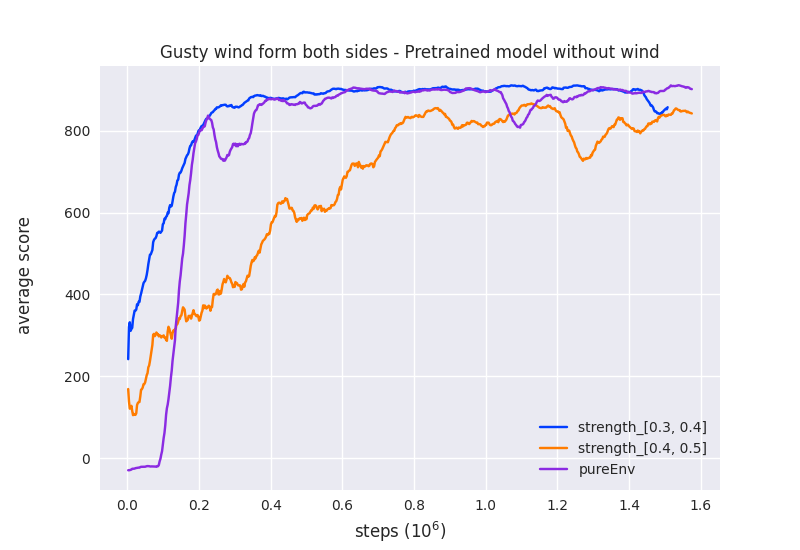
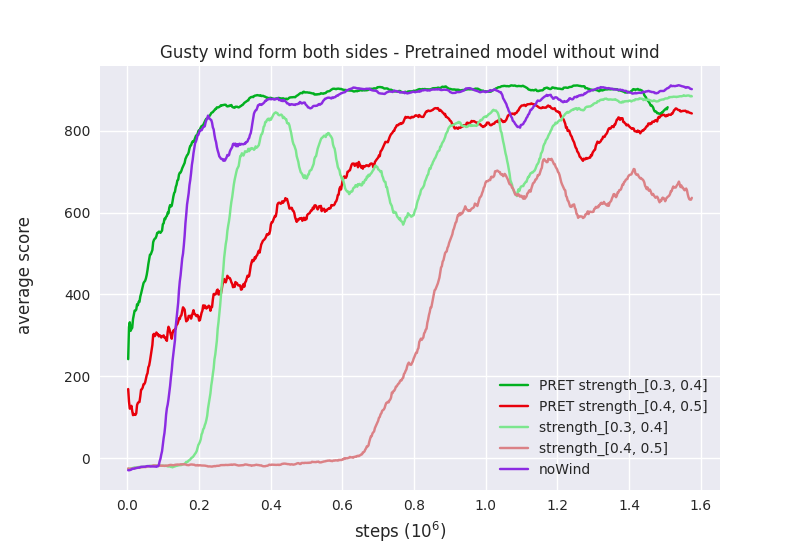
pureEnv to noWind change

diff --git a/tensorboardPlotting/tfmatplotlib.py b/tensorboardPlotting/tfmatplotlib.py
@@ -11,23 +11,23 @@ import numpy as np
 import math
 
 # ------- ADJUSTABLES -------
-input_paths = [
-    # "/mnt/personal/sykorvo1/PPOthesis/ppo/pureEnv/2023-02-24_17-00-49.433548/events.out.tfevents.1677254450.g04.1551953.0.v2",
-    # "/mnt/personal/sykorvo1/PPOthesis/ppo/pureEnv/2023-02-24_17-23-48.526468/events.out.tfevents.1677255829.g01.2154405.0.v2",
-    # "/mnt/personal/sykorvo1/PPOthesis/ppo/pureEnv/2023-02-27_22-24-03.054114/events.out.tfevents.1677533043.g04.1583837.0.v2",
-    # "/mnt/personal/sykorvo1/PPOthesis/ppo/pureEnv/2023-02-27_22-24-03.094545/events.out.tfevents.1677533043.g12.1928932.0.v2",
-    # "/mnt/personal/sykorvo1/PPOthesis/ppo/gustyLeft/2023-02-28_18-21-18.481500/events.out.tfevents.1677604878.a01.1440399.0.v2",
-    # "/mnt/personal/sykorvo1/PPOthesis/ppo/gustyLeft/2023-02-28_18-21-18.713632/events.out.tfevents.1677604879.a01.1440398.0.v2",
-    "/mnt/personal/sykorvo1/PPOthesis/ppo/sides/strength_[0.1, 0.2]/events.out.tfevents.1677708004.a14.510925.0.v2",
-    "/mnt/personal/sykorvo1/PPOthesis/ppo/sides/strength_[0.2, 0.3]/events.out.tfevents.1677708004.a14.510926.0.v2",
-    "/mnt/personal/sykorvo1/PPOthesis/ppo/sides/strength_[0.3, 0.4]/events.out.tfevents.1677708004.a15.1610646.0.v2",
-    "/mnt/personal/sykorvo1/PPOthesis/ppo/sides/strength_[0.4, 0.5]/events.out.tfevents.1677708003.a15.1610647.0.v2",
-    "/mnt/personal/sykorvo1/PPOthesis/ppo/BEST/pureEnv/events.out.tfevents.1670670309.a06.1146630.0.v2"
-    ]
+# input_paths = [
+#     # "/mnt/personal/sykorvo1/PPOthesis/ppo/noWind/2023-02-24_17-00-49.433548/events.out.tfevents.1677254450.g04.1551953.0.v2",
+#     # "/mnt/personal/sykorvo1/PPOthesis/ppo/noWind/2023-02-24_17-23-48.526468/events.out.tfevents.1677255829.g01.2154405.0.v2",
+#     # "/mnt/personal/sykorvo1/PPOthesis/ppo/noWind/2023-02-27_22-24-03.054114/events.out.tfevents.1677533043.g04.1583837.0.v2",
+#     # "/mnt/personal/sykorvo1/PPOthesis/ppo/noWind/2023-02-27_22-24-03.094545/events.out.tfevents.1677533043.g12.1928932.0.v2",
+#     # "/mnt/personal/sykorvo1/PPOthesis/ppo/gustyLeft/2023-02-28_18-21-18.481500/events.out.tfevents.1677604878.a01.1440399.0.v2",
+#     # "/mnt/personal/sykorvo1/PPOthesis/ppo/gustyLeft/2023-02-28_18-21-18.713632/events.out.tfevents.1677604879.a01.1440398.0.v2",
+#     "/mnt/personal/sykorvo1/PPOthesis/ppo/sides/strength_[0.1, 0.2]/events.out.tfevents.1677708004.a14.510925.0.v2",
+#     "/mnt/personal/sykorvo1/PPOthesis/ppo/sides/strength_[0.2, 0.3]/events.out.tfevents.1677708004.a14.510926.0.v2",
+#     "/mnt/personal/sykorvo1/PPOthesis/ppo/sides/strength_[0.3, 0.4]/events.out.tfevents.1677708004.a15.1610646.0.v2",
+#     "/mnt/personal/sykorvo1/PPOthesis/ppo/sides/strength_[0.4, 0.5]/events.out.tfevents.1677708003.a15.1610647.0.v2",
+#     "/mnt/personal/sykorvo1/PPOthesis/ppo/BEST/noWind/events.out.tfevents.1670670309.a06.1146630.0.v2"
+#     ]
 labels = ["a", "b", "c", "d", "e", "f"]
 colors = ['#023eff', '#ff7c00', '#1ac938', '#e8000b', '#8b2be2', '#9f4800', '#f14cc1', '#a3a3a3', '#ffc400', '#00d7ff']
 end = 300
-legend_curve_label = "PureEnv"
+legend_curve_label = "noWind"
 xlabel = 'steps'
 ylabel = 'Average Score'
 save_file = "plot.png"
@@ -116,45 +116,28 @@ def figs_in_line(input_paths, labels, colors):
     return fig, axs
 
 STEPS_POWER = 6 # xlabel 10^power and also xaxis / 10^power
-STEP_CUTOFF = 550
-def more_lines_in_one_graph(input_paths, ax, colors, title, labels = None):
+def more_lines_in_one_graph(input_paths, ax, colors, title, labels = None, step_cutoff = 550):
+    
     for i, path in enumerate(input_paths):
         s, v = get_data_from_tbfile(path)
         s = np.array(s) / math.pow(10, STEPS_POWER)
-        ax.plot(s[:STEP_CUTOFF], v[:STEP_CUTOFF], label = get_name_of_last_dir(path), color = colors[i])
+        if labels is None:
+            ax.plot(s[:step_cutoff], v[:step_cutoff], label = get_name_of_last_dir(path), color = colors[i])
+        else:
+            ax.plot(s[:step_cutoff], v[:step_cutoff], label = labels[i], color = colors[i])
     ax.set_title(title)
     ax.legend()
 
-def get_sides(ax, colors):
+def get_left(ax, colors):
     input_paths = [
-        "/mnt/personal/sykorvo1/PPOthesis/ppo/sides/strength_[0.1, 0.2]/events.out.tfevents.1677708004.a14.510925.0.v2",
-        "/mnt/personal/sykorvo1/PPOthesis/ppo/sides/strength_[0.2, 0.3]/events.out.tfevents.1677708004.a14.510926.0.v2",
-        "/mnt/personal/sykorvo1/PPOthesis/ppo/sides/strength_[0.3, 0.4]/events.out.tfevents.1677708004.a15.1610646.0.v2",
-        "/mnt/personal/sykorvo1/PPOthesis/ppo/sides/strength_[0.4, 0.5]/events.out.tfevents.1677708003.a15.1610647.0.v2",
-        "/mnt/personal/sykorvo1/PPOthesis/ppo/BEST/pureEnv/events.out.tfevents.1670670309.a06.1146630.0.v2"
+        "/mnt/personal/sykorvo1/PPOthesis/ppo/left/strength_[0.1, 0.2]/events.out.tfevents.1677749342.a10.1201228.0.v2",
+        "/mnt/personal/sykorvo1/PPOthesis/ppo/left/strength_[0.2, 0.3]/events.out.tfevents.1677790045.a10.1229252.0.v2",
+        "/mnt/personal/sykorvo1/PPOthesis/ppo/left/strength_[0.3, 0.4]/events.out.tfevents.1677749342.a11.2517219.0.v2",
+        "/mnt/personal/sykorvo1/PPOthesis/ppo/left/strength_[0.4, 0.5]/events.out.tfevents.1677749342.a11.2517220.0.v2",
+        "/mnt/personal/sykorvo1/PPOthesis/ppo/BEST/noWind/events.out.tfevents.1670670309.a06.1146630.0.v2"
     ]
     
-    more_lines_in_one_graph(input_paths, ax, colors, "Continuous wind from both sides")
-
-def get_gustySides(ax, colors):
-    input_paths = [
-        "/mnt/personal/sykorvo1/PPOthesis/ppo/gustySides/strength_[0.1, 0.2]/events.out.tfevents.1677864061.a10.1274552.0.v2",
-        "/mnt/personal/sykorvo1/PPOthesis/ppo/gustySides/strength_[0.2, 0.3]/events.out.tfevents.1677864060.a10.1274553.0.v2",
-        "/mnt/personal/sykorvo1/PPOthesis/ppo/gustySides/strength_[0.3, 0.4]/events.out.tfevents.1677864061.a11.2589115.0.v2",
-        "/mnt/personal/sykorvo1/PPOthesis/ppo/gustySides/strength_[0.4, 0.5]/events.out.tfevents.1677959448.a10.1330885.0.v2",
-        "/mnt/personal/sykorvo1/PPOthesis/ppo/BEST/pureEnv/events.out.tfevents.1670670309.a06.1146630.0.v2"
-    ]
-    
-    more_lines_in_one_graph(input_paths, ax, colors, "Gusty wind form both sides")
-
-def get_PRETgustySides(ax, colors):
-    input_paths = [
-        "/mnt/personal/sykorvo1/PPOthesis/ppo/PRETgustySides/strength_[0.3, 0.4]/events.out.tfevents.1677865502.a10.1276572.0.v2",
-        "/mnt/personal/sykorvo1/PPOthesis/ppo/PRETgustySides/strength_[0.4, 0.5]/events.out.tfevents.1677959687.a11.2645933.0.v2",
-        "/mnt/personal/sykorvo1/PPOthesis/ppo/BEST/pureEnv/events.out.tfevents.1670670309.a06.1146630.0.v2"
-    ]
-    
-    more_lines_in_one_graph(input_paths, ax, [colors[0], colors[1], colors[4]], "Gusty wind form both sides - Pretrained model without wind")
+    more_lines_in_one_graph(input_paths, ax, colors, "Continuous Left wind", step_cutoff = 550)
 
 def get_right(ax, colors):
     input_paths = [
@@ -162,32 +145,10 @@ def get_right(ax, colors):
         "/mnt/personal/sykorvo1/PPOthesis/ppo/right/strength_[0.2, 0.3]/events.out.tfevents.1677749546.a10.1203168.0.v2",
         "/mnt/personal/sykorvo1/PPOthesis/ppo/right/strength_[0.3, 0.4]/events.out.tfevents.1677749546.a11.2519113.0.v2",
         "/mnt/personal/sykorvo1/PPOthesis/ppo/right/strength_[0.4, 0.5]/events.out.tfevents.1677749547.a11.2519114.0.v2",
-        "/mnt/personal/sykorvo1/PPOthesis/ppo/BEST/pureEnv/events.out.tfevents.1670670309.a06.1146630.0.v2"
+        "/mnt/personal/sykorvo1/PPOthesis/ppo/BEST/noWind/events.out.tfevents.1670670309.a06.1146630.0.v2"
     ]
     
-    more_lines_in_one_graph(input_paths, ax, colors, "Continuous Right wind")
-    
-def get_gustyRight(ax, colors):
-    input_paths = [
-        "/mnt/personal/sykorvo1/PPOthesis/ppo/gustyRight/strength_[0.1, 0.2]/events.out.tfevents.1677749527.a10.1202568.0.v2",
-        "/mnt/personal/sykorvo1/PPOthesis/ppo/gustyRight/strength_[0.2, 0.3]/events.out.tfevents.1677749528.a10.1202569.0.v2",
-        "/mnt/personal/sykorvo1/PPOthesis/ppo/gustyRight/strength_[0.3, 0.4]/events.out.tfevents.1677749528.a11.2518530.0.v2",
-        "/mnt/personal/sykorvo1/PPOthesis/ppo/gustyRight/strength_[0.4, 0.5]/events.out.tfevents.1677749528.a11.2518531.0.v2",
-        "/mnt/personal/sykorvo1/PPOthesis/ppo/BEST/pureEnv/events.out.tfevents.1670670309.a06.1146630.0.v2"
-    ]
-    
-    more_lines_in_one_graph(input_paths, ax, colors, "Gusty Right wind")
-    
-def get_left(ax, colors):
-    input_paths = [
-        "/mnt/personal/sykorvo1/PPOthesis/ppo/left/strength_[0.1, 0.2]/events.out.tfevents.1677749342.a10.1201228.0.v2",
-        "/mnt/personal/sykorvo1/PPOthesis/ppo/left/strength_[0.2, 0.3]/events.out.tfevents.1677790045.a10.1229252.0.v2",
-        "/mnt/personal/sykorvo1/PPOthesis/ppo/left/strength_[0.3, 0.4]/events.out.tfevents.1677749342.a11.2517219.0.v2",
-        "/mnt/personal/sykorvo1/PPOthesis/ppo/left/strength_[0.4, 0.5]/events.out.tfevents.1677749342.a11.2517220.0.v2",
-        "/mnt/personal/sykorvo1/PPOthesis/ppo/BEST/pureEnv/events.out.tfevents.1670670309.a06.1146630.0.v2"
-    ]
-    
-    more_lines_in_one_graph(input_paths, ax, colors, "Continuous Left wind")
+    more_lines_in_one_graph(input_paths, ax, colors, "Continuous Right wind", step_cutoff = 550)
     
 def get_gustyLeft(ax, colors):
     input_paths = [
@@ -195,12 +156,57 @@ def get_gustyLeft(ax, colors):
         "/mnt/personal/sykorvo1/PPOthesis/ppo/gustyLeft/strength_[0.2, 0.3]/events.out.tfevents.1677749452.a10.1201907.0.v2",
         "/mnt/personal/sykorvo1/PPOthesis/ppo/gustyLeft/strength_[0.3, 0.4]/events.out.tfevents.1677749451.a11.2517891.0.v2",
         "/mnt/personal/sykorvo1/PPOthesis/ppo/gustyLeft/strength_[0.4, 0.5]/events.out.tfevents.1677749452.a11.2517892.0.v2",
-        "/mnt/personal/sykorvo1/PPOthesis/ppo/BEST/pureEnv/events.out.tfevents.1670670309.a06.1146630.0.v2"
+        "/mnt/personal/sykorvo1/PPOthesis/ppo/BEST/noWind/events.out.tfevents.1670670309.a06.1146630.0.v2"
     ]
     
-    more_lines_in_one_graph(input_paths, ax, colors, "Gusty Left wind")
+    more_lines_in_one_graph(input_paths, ax, colors, "Gusty Left wind", step_cutoff = 700)
+    
+def get_gustyRight(ax, colors):
+    input_paths = [
+        "/mnt/personal/sykorvo1/PPOthesis/ppo/gustyRight/strength_[0.1, 0.2]/events.out.tfevents.1677749527.a10.1202568.0.v2",
+        "/mnt/personal/sykorvo1/PPOthesis/ppo/gustyRight/strength_[0.2, 0.3]/events.out.tfevents.1677749528.a10.1202569.0.v2",
+        "/mnt/personal/sykorvo1/PPOthesis/ppo/gustyRight/strength_[0.3, 0.4]/events.out.tfevents.1677749528.a11.2518530.0.v2",
+        "/mnt/personal/sykorvo1/PPOthesis/ppo/gustyRight/strength_[0.4, 0.5]/events.out.tfevents.1677749528.a11.2518531.0.v2",
+        "/mnt/personal/sykorvo1/PPOthesis/ppo/BEST/noWind/events.out.tfevents.1670670309.a06.1146630.0.v2"
+    ]
+    
+    more_lines_in_one_graph(input_paths, ax, colors, "Gusty Right wind", step_cutoff = 450)
 
-def make_multibar_plot(s1to2, s2to3, s3to4, s4to5, pureEnv, save_path = "multibar.png"):
+def get_sides(ax, colors):
+    input_paths = [
+        "/mnt/personal/sykorvo1/PPOthesis/ppo/sides/strength_[0.1, 0.2]/events.out.tfevents.1677708004.a14.510925.0.v2",
+        "/mnt/personal/sykorvo1/PPOthesis/ppo/sides/strength_[0.2, 0.3]/events.out.tfevents.1677708004.a14.510926.0.v2",
+        "/mnt/personal/sykorvo1/PPOthesis/ppo/sides/strength_[0.3, 0.4]/events.out.tfevents.1677708004.a15.1610646.0.v2",
+        "/mnt/personal/sykorvo1/PPOthesis/ppo/sides/strength_[0.4, 0.5]/events.out.tfevents.1677708003.a15.1610647.0.v2",
+        "/mnt/personal/sykorvo1/PPOthesis/ppo/BEST/noWind/events.out.tfevents.1670670309.a06.1146630.0.v2"
+    ]
+    
+    more_lines_in_one_graph(input_paths, ax, colors, "Continuous wind from both sides", step_cutoff = 450)
+
+def get_gustySides(ax, colors):
+    input_paths = [
+        "/mnt/personal/sykorvo1/PPOthesis/ppo/gustySides/strength_[0.1, 0.2]/events.out.tfevents.1677864061.a10.1274552.0.v2",
+        "/mnt/personal/sykorvo1/PPOthesis/ppo/gustySides/strength_[0.2, 0.3]/events.out.tfevents.1677864060.a10.1274553.0.v2",
+        "/mnt/personal/sykorvo1/PPOthesis/ppo/gustySides/strength_[0.3, 0.4]/events.out.tfevents.1677864061.a11.2589115.0.v2",
+        "/mnt/personal/sykorvo1/PPOthesis/ppo/gustySides/strength_[0.4, 0.5]/events.out.tfevents.1677959448.a10.1330885.0.v2",
+        "/mnt/personal/sykorvo1/PPOthesis/ppo/BEST/noWind/events.out.tfevents.1670670309.a06.1146630.0.v2"
+    ]
+    
+    more_lines_in_one_graph(input_paths, ax, colors, "Gusty wind form both sides", step_cutoff = 700)
+
+def get_PRETgustySides(ax, colors):
+    input_paths = [
+        "/mnt/personal/sykorvo1/PPOthesis/ppo/PRETgustySides/strength_[0.3, 0.4]/events.out.tfevents.1677865502.a10.1276572.0.v2",
+        "/mnt/personal/sykorvo1/PPOthesis/ppo/PRETgustySides/strength_[0.4, 0.5]/events.out.tfevents.1677959687.a11.2645933.0.v2",
+        "/mnt/personal/sykorvo1/PPOthesis/ppo/gustySides/strength_[0.3, 0.4]/events.out.tfevents.1677864061.a11.2589115.0.v2",
+        "/mnt/personal/sykorvo1/PPOthesis/ppo/gustySides/strength_[0.4, 0.5]/events.out.tfevents.1677959448.a10.1330885.0.v2",
+        "/mnt/personal/sykorvo1/PPOthesis/ppo/BEST/noWind/events.out.tfevents.1670670309.a06.1146630.0.v2"
+    ]
+    PRETcolors =  ['#02b020', '#e8000b', '#7ce68e', '#db8186', '#8b2be2']
+    PRETlabels = ['PRET strength_[0.3, 0.4]', 'PRET strength_[0.4, 0.5]', 'strength_[0.3, 0.4]', 'strength_[0.4, 0.5]', 'noWind']
+    more_lines_in_one_graph(input_paths, ax, PRETcolors, "Gusty wind form both sides - Pretrained model without wind", PRETlabels, step_cutoff = 700)
+
+def make_multibar_plot(s1to2, s2to3, s3to4, s4to5, noWind, save_path = "multibar.png"):
     # set width of bar
     barWidth = 0.15
     fig, axs = plt.subplots()
@@ -209,7 +215,7 @@ def make_multibar_plot(s1to2, s2to3, s3to4, s4to5, pureEnv, save_path = "multiba
     # that are the parameters of the function
     
     # Set position of bar on X axis
-    br1 = np.arange(len(pureEnv))
+    br1 = np.arange(len(noWind))
     br2 = [x + barWidth for x in br1]
     br3 = [x + barWidth for x in br2]
     br4 = [x + barWidth for x in br3]
@@ -220,13 +226,13 @@ def make_multibar_plot(s1to2, s2to3, s3to4, s4to5, pureEnv, save_path = "multiba
     plt.bar(br2, s2to3,   color = colors[1], width = barWidth, edgecolor ='grey', label = 'strength_[0.2, 0.3]')
     plt.bar(br3, s3to4,   color = colors[2], width = barWidth, edgecolor ='grey', label = 'strength_[0.3, 0.4]')
     plt.bar(br4, s4to5,   color = colors[3], width = barWidth, edgecolor ='grey', label = 'strength_[0.4, 0.5]')
-    plt.bar(br5, pureEnv, color = colors[4], width = barWidth, edgecolor ='grey', label = 'pureEnv')
+    plt.bar(br5, noWind, color = colors[4], width = barWidth, edgecolor ='grey', label = 'noWind')
     
     # Adding Xticks
     plt.xlabel('Envs', fontweight ='bold', fontsize = 12)
     plt.ylabel('Average score over last 50 episodes', fontweight ='bold', fontsize = 12)
-    plt.xticks([r + barWidth*2 for r in range(len(pureEnv))],
-            ['pureEnv', 'left', 'gustyleft', 'right', 'gustyRight', 'sides', 'gustySides'])
+    plt.xticks([r + barWidth*2 for r in range(len(noWind))],
+            ['noWind', 'left', 'gustyleft', 'right', 'gustyRight', 'sides', 'gustySides'])
     
     plt.legend(bbox_to_anchor=(0.85,0.6), bbox_transform=plt.gcf().transFigure)
     plt.subplots_adjust(left=0.1, bottom=0.1, right=0.85)
@@ -237,8 +243,8 @@ def make_example_multibar(save_path = "multibar.png"):
     s2to3   = [3,1,4,2,3,1,2]
     s3to4   = [4,2,1,3,1,2,4]
     s4to5   = [3,1,2,4,3,1,3] 
-    pureEnv = [1,2,3,1,2,3,1]
-    make_multibar_plot(s1to2, s2to3, s3to4, s4to5, pureEnv, save_path)
+    noWind = [1,2,3,1,2,3,1]
+    make_multibar_plot(s1to2, s2to3, s3to4, s4to5, noWind, save_path)
 
 if __name__ == '__main__':
     
@@ -258,17 +264,17 @@ if __name__ == '__main__':
         
         fig, axs = plt.subplots(ncols=1, nrows=1)
         
-        # # get_sides(axs[0], colors)
-        # # get_right(axs, colors)
-        # # get_gustyRight(axs, colors)
-        get_left(axs, colors)
-        # # get_gustyLeft(axs, colors)
+        # get_left(axs, colors)
+        # get_right(axs, colors)
+        # get_gustyLeft(axs, colors)
+        # get_gustyRight(axs, colors)
+        # get_sides(axs, colors)
         # get_gustySides(axs, colors)
-        # get_PRETgustySides(axs, colors)
+        get_PRETgustySides(axs, colors)
         
         fig.supxlabel(f'steps ($10^{STEPS_POWER}$)')
         fig.supylabel('average score')
-        fig.savefig("left.png")
+        fig.savefig("PRETgustySides.png")
     
     # -----------------------------------
     #   MultiBAR plots
